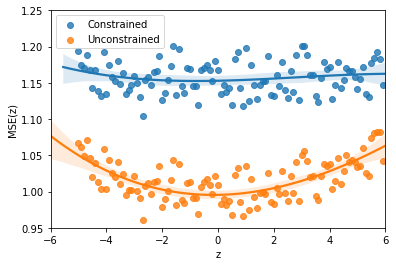
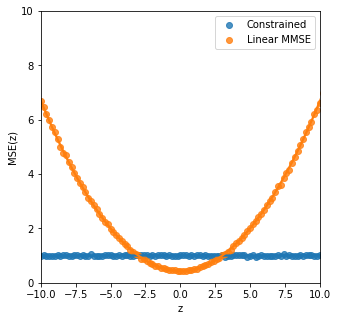
finalize the first example

diff --git a/example/example_synthetic_data.py b/example/example_synthetic_data.py
@@ -9,6 +9,7 @@ from sklearn.metrics import mean_squared_error
 from numpy import linalg as LA
 import numpy as np
 from numpy.linalg import inv
+from scipy.stats import norm
 import seaborn as sns
 import matplotlib.pyplot as plt
 from cvxopt.solvers import qp
@@ -28,12 +29,12 @@ q = 1    # dimension of z
 # =============================================================================
 
 # Covariance matrices
-Cov_xzy = np.array([[1, 0, .3, .5],
-                    [0, 1, .3, .5],
-                    [.3, .3, 1, .7],
-                    [.5, .5, .7, 1]])
+Cov_xzy = np.array([[1, 0, .25, .5],
+                    [0, 1, .25, .5],
+                    [.25, .25, 1, .5],
+                    [.5, .5, .5, 1]])
 LA.eig(Cov_xzy)
-plt.figure()
+plt.figure(figsize=(6, 5))
 sns.heatmap(Cov_xzy)
 
 alpha_beta_joint = np.dot(Cov_xzy[-1, 0:-1].reshape(1,(d+q)), inv(Cov_xzy[0:-1, 0:-1]))
@@ -89,13 +90,13 @@ Theta = np.transpose(np.dot(Cov_xzy[d:d+q, 0:d], inv(Cov_xzy[0:d, 0:d])))
 
 # Generate testing data
 # (x, y, z) ~ N(mu, Cov)
-Cov_xyz = np.array([[1, 0, .5, .3,],
-                    [0, 1, .5, .3,],
-                    [.5, .5, 1, .7],
-                    [.3, .3, .7, 1]])
-LA.eig(Cov_xyz)
-plt.figure()
-sns.heatmap(Cov_xyz)
+Cov_xyz = np.array([[1, 0, .5, .25,],
+                    [0, 1, .5, .25,],
+                    [.5, .5, 1, .5],
+                    [.25, .25, .5, 1]])
+#LA.eig(Cov_xyz)
+#plt.figure()
+#sns.heatmap(Cov_xyz)
 
 # (x, y | z) ~ N(mu_xy_z, Cov_xy_z)
 def conditional_mean(z, mu_z, mu_xy, Cov_xyz):
@@ -129,13 +130,20 @@ for j in range(0, 105, 1):
     MSE_unconst[j] = mean_squared_error(y_true, y_predict_unconst) 
     MSE_2stages[j] = mean_squared_error(y_true, y_predict_2stage) 
     
-plt.figure()
+z = np.random.normal(loc=0, scale=1, size=100000)     
+    
+plt.figure(figsize=(5, 5))
 sns.regplot(np.arange(-10, 11, .2), MSE_const.reshape(105), order=3, label="Constrained")
-sns.regplot(np.arange(-10, 11, .2), MSE_unconst.reshape(105), order=3, label="Unconstrained")  
-sns.regplot(np.arange(-10, 11, .2), MSE_2stages.reshape(105), order=3, label="2 stages") 
-plt.xlim((-11, 11))
+sns.regplot(np.arange(-10, 11, .2), MSE_unconst.reshape(105), order=3, label="Linear MMSE") 
+#sns.regplot(np.arange(-10, 11, .2), MSE_2stages.reshape(105), order=3, label="Two-stage") 
+plt.xlim((-10, 10))
 plt.ylim((0, 10))
 plt.legend()
 #plt.legend("Constrained", "Unconstrained")      
 plt.xlabel("z")
 plt.ylabel("MSE(z)")
+
+plt.figure(figsize=(5, 5))
+sns.distplot(z) 
+plt.xlim((-10, 10))
+plt.ylim((0, 1))
